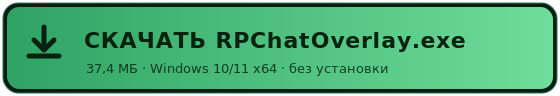
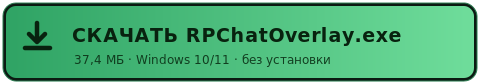
Форум: картинки 480 px

Changed region(s): [[0.0, 0.0, 1.0, 1.0], [0.1875, 0.3095, 0.8438, 0.5476], [0.1562, 0.6429, 0.7188, 0.7857]]

diff --git a/source/images/forum/make_forum_graphics_compact.py b/source/images/forum/make_forum_graphics_compact.py
@@ -57,97 +57,86 @@ def render(name, text):
     print(f"  {name}.png  {im.size[0]}×{im.size[1]}  {(OUT/(name+'.png')).stat().st_size//1024} КБ")
 
 
-# ------------------------------------------------------- шапка (680 px)
+# ------------------------------------------------------- шапка (480 px)
 def header():
-    w, h = 680, 196
+    w, h = 480, 120
     b = [f'<rect width="{w}" height="{h}" fill="url(#bg)"/>',
          f'<rect width="{w}" height="{h}" fill="url(#grid)"/>',
-         '<circle cx="640" cy="6" r="130" fill="#3d6fd8" opacity="0.10"/>',
-         '<circle cx="30" cy="190" r="96" fill="#57c98a" opacity="0.08"/>',
+         '<circle cx="450" cy="0" r="90" fill="#3d6fd8" opacity="0.10"/>',
          f'<rect x="0" y="{h-4}" width="{w}" height="4" fill="url(#bar)"/>',
-         '<rect x="32" y="30" width="64" height="64" rx="16" fill="url(#logo)"/>',
-         '<text x="64" y="72" font-size="27" font-weight="bold" fill="#0d1018" '
+         '<rect x="26" y="26" width="56" height="56" rx="14" fill="url(#logo)"/>',
+         '<text x="54" y="64" font-size="24" font-weight="bold" fill="#0d1018" '
          'text-anchor="middle">RP</text>']
-
     title = "RP Chat Overlay"
-    b.append(f'<text x="110" y="62" font-size="{fit(title, 520, 30, True)}" font-weight="bold" '
+    b.append(f'<text x="96" y="54" font-size="{fit(title, 360, 26, True)}" font-weight="bold" '
              f'fill="{TXT}">{title}</text>')
     sub = "переводчик чата для GTA V / FiveM"
-    b.append(f'<text x="111" y="87" font-size="{fit(sub, 520, 15)}" fill="{MUT}">{sub}</text>')
-
-    x = 32
-    for c in ["13 языков", "свои словари", "слова-паразиты", "Windows 10/11"]:
-        cw = int(measure(c, 13)) + 22
-        b.append(f'<rect x="{x}" y="106" width="{cw}" height="27" rx="13" fill="#1c2029" stroke="{BORDER}"/>')
-        b.append(f'<text x="{x + cw/2}" y="124" font-size="13" fill="{DIM}" text-anchor="middle">{c}</text>')
-        x += cw + 7
-
-    src, dst = "Слушай, брат, подожди", "Senti, fratello, aspetta"
-    ax = int(32 + measure(src, 14) + 16)          # стрелка строго после текста
-    b.append(f'<text x="32" y="172" font-size="14" fill="{DIM}">{src}</text>')
-    b.append(f'<path d="M{ax} 166h24" stroke="{GREEN}" stroke-width="2.2"/>')
-    b.append(f'<path d="M{ax+20} 161l8 5-8 5z" fill="{GREEN}"/>')
-    b.append(f'<text x="{ax+40}" y="172" font-size="{fit(dst, 660 - ax - 40, 14)}" '
-             f'fill="#9fe3b5">{dst}</text>')
+    b.append(f'<text x="97" y="76" font-size="{fit(sub, 360, 14)}" fill="{MUT}">{sub}</text>')
+    src, dst = "Слушай, брат", "Senti, fratello"
+    ax = int(26 + measure(src, 12) + 10)
+    b.append(f'<text x="26" y="104" font-size="12" fill="{DIM}">{src}</text>')
+    b.append(f'<path d="M{ax} 100h14" stroke="{GREEN}" stroke-width="2"/>')
+    b.append(f'<path d="M{ax+11} 96l6 4-6 4z" fill="{GREEN}"/>')
+    b.append(f'<text x="{ax+24}" y="104" font-size="12" fill="#9fe3b5">{dst}</text>')
     return svg(w, h, "".join(b))
 
 
 # --------------------------------------------- заголовок раздела (680 px)
 def section(name, title, caption="", color=BLUE, icon="›"):
-    w, h = 680, 56
-    ts = fit(title, 380 if caption else 540, 19, bold=True, spacing=0.9)
+    w, h = 480, 46
+    ts = fit(title, 260 if caption else 360, 16, bold=True, spacing=0.8)
     b = [f'<rect width="{w}" height="{h}" rx="10" fill="{PANEL}" stroke="{BORDER}"/>',
          f'<rect x="0" y="0" width="6" height="{h}" rx="3" fill="{color}"/>',
-         f'<circle cx="38" cy="{h/2}" r="14" fill="{color}" opacity="0.18"/>',
-         f'<text x="38" y="{h/2+6}" font-size="16" font-weight="bold" fill="{color}" '
+         f'<circle cx="32" cy="{h/2}" r="12" fill="{color}" opacity="0.18"/>',
+         f'<text x="32" y="{h/2+5}" font-size="14" font-weight="bold" fill="{color}" '
          f'text-anchor="middle">{icon}</text>',
-         f'<text x="64" y="{h/2+6}" font-size="{ts}" font-weight="bold" fill="{TXT}" '
+         f'<text x="54" y="{h/2+5}" font-size="{ts}" font-weight="bold" fill="{TXT}" '
          f'letter-spacing="0.9">{title}</text>']
     if caption:
-        b.append(f'<text x="{w-16}" y="{h/2+4}" font-size="{fit(caption, 180, 12)}" '
+        b.append(f'<text x="{w-14}" y="{h/2+4}" font-size="{fit(caption, 130, 11)}" '
                  f'fill="{MUT}" text-anchor="end">{caption}</text>')
     return svg(w, h, "".join(b))
 
 
-# ------------------------------------------- кнопка «скачать» (560 px)
+# ------------------------------------------- кнопка «скачать» (480 px)
 def btn_download():
-    w, h = 560, 96
-    t1, t2 = "СКАЧАТЬ RPChatOverlay.exe", "37,4 МБ · Windows 10/11 x64 · без установки"
-    s1 = fit(t1, 400, 22, bold=True, spacing=0.7)
-    s2 = fit(t2, 396, 13)
-    b = [f'<rect x="3" y="3" width="{w-6}" height="{h-6}" rx="15" fill="#0b1a12" stroke="#2b7d51"/>',
-         f'<rect x="7" y="7" width="{w-14}" height="{h-14}" rx="12" fill="url(#green)"/>',
-         '<g transform="translate(26,26)"><path d="M18 1v20" stroke="#08220f" stroke-width="5" '
-         'stroke-linecap="round"/><path d="M8 14l10 10 10-10" fill="none" stroke="#08220f" '
-         'stroke-width="5" stroke-linecap="round" stroke-linejoin="round"/>'
-         '<path d="M3 30h30" stroke="#08220f" stroke-width="5" stroke-linecap="round"/></g>',
-         f'<text x="84" y="48" font-size="{s1}" font-weight="bold" fill="#08220f" '
-         f'letter-spacing="0.7">{t1}</text>',
-         f'<text x="86" y="73" font-size="{s2}" fill="#0a3016" opacity="0.9">{t2}</text>']
+    w, h = 480, 84
+    t1, t2 = "СКАЧАТЬ RPChatOverlay.exe", "37,4 МБ · Windows 10/11 · без установки"
+    s1 = fit(t1, 340, 19, bold=True, spacing=0.6)
+    s2 = fit(t2, 336, 12)
+    b = [f'<rect x="3" y="3" width="{w-6}" height="{h-6}" rx="13" fill="#0b1a12" stroke="#2b7d51"/>',
+         f'<rect x="6" y="6" width="{w-12}" height="{h-12}" rx="10" fill="url(#green)"/>',
+         '<g transform="translate(22,22)"><path d="M15 1v17" stroke="#08220f" stroke-width="4.5" '
+         'stroke-linecap="round"/><path d="M7 12l8 8 8-8" fill="none" stroke="#08220f" '
+         'stroke-width="4.5" stroke-linecap="round" stroke-linejoin="round"/>'
+         '<path d="M3 26h25" stroke="#08220f" stroke-width="4.5" stroke-linecap="round"/></g>',
+         f'<text x="72" y="42" font-size="{s1}" font-weight="bold" fill="#08220f" '
+         f'letter-spacing="0.6">{t1}</text>',
+         f'<text x="74" y="64" font-size="{s2}" fill="#0a3016" opacity="0.9">{t2}</text>']
     return svg(w, h, "".join(b))
 
 
-# ------------------------------------------ кнопка «исходники» (560 px)
+# ------------------------------------------ кнопка «исходники» (480 px)
 def btn_source():
-    w, h = 560, 74
+    w, h = 480, 64
     t1, t2 = "ИСХОДНИКИ НА GITHUB", "папка source · Python 3.12 + PySide6"
-    b = [f'<rect x="3" y="3" width="{w-6}" height="{h-6}" rx="13" fill="#171b24" stroke="{BLUE}" stroke-width="2"/>',
-         f'<text x="38" y="46" font-size="21" font-weight="bold" fill="{BLUE}" text-anchor="middle">{{ }}</text>',
-         f'<text x="68" y="36" font-size="{fit(t1, 460, 19, True, 0.5)}" font-weight="bold" '
+    b = [f'<rect x="3" y="3" width="{w-6}" height="{h-6}" rx="12" fill="#171b24" stroke="{BLUE}" stroke-width="2"/>',
+         f'<text x="34" y="40" font-size="18" font-weight="bold" fill="{BLUE}" text-anchor="middle">{{ }}</text>',
+         f'<text x="62" y="30" font-size="{fit(t1, 390, 17, True, 0.4)}" font-weight="bold" '
          f'fill="{TXT}">{t1}</text>',
-         f'<text x="70" y="58" font-size="{fit(t2, 460, 13)}" fill="{MUT}">{t2}</text>']
+         f'<text x="64" y="50" font-size="{fit(t2, 390, 12)}" fill="{MUT}">{t2}</text>']
     return svg(w, h, "".join(b))
 
 
-# -------------------------------------------------- бейдж VirusTotal (440 px)
+# -------------------------------------------------- бейдж VirusTotal (360 px)
 def badge():
-    w, h = 440, 70
-    t1, t2 = "VirusTotal: 2 / 70", "Bkav и SecureAge — известные ложные"
-    b = [f'<rect width="{w}" height="{h}" rx="12" fill="{PANEL}" stroke="{BORDER}"/>',
-         f'<rect x="0" y="0" width="6" height="{h}" rx="3" fill="{GREEN}"/>',
-         f'<text x="22" y="32" font-size="{fit(t1, 390, 18, True)}" font-weight="bold" '
+    w, h = 360, 60
+    t1, t2 = "VirusTotal: 2 / 70", "Bkav и SecureAge — ложные"
+    b = [f'<rect width="{w}" height="{h}" rx="11" fill="{PANEL}" stroke="{BORDER}"/>',
+         f'<rect x="0" y="0" width="5" height="{h}" rx="2.5" fill="{GREEN}"/>',
+         f'<text x="18" y="28" font-size="{fit(t1, 320, 16, True)}" font-weight="bold" '
          f'fill="{GREEN}">{t1}</text>',
-         f'<text x="22" y="54" font-size="{fit(t2, 400, 12.5)}" fill="{MUT}">{t2}</text>']
+         f'<text x="18" y="47" font-size="{fit(t2, 330, 11.5)}" fill="{MUT}">{t2}</text>']
     return svg(w, h, "".join(b))
 
 
